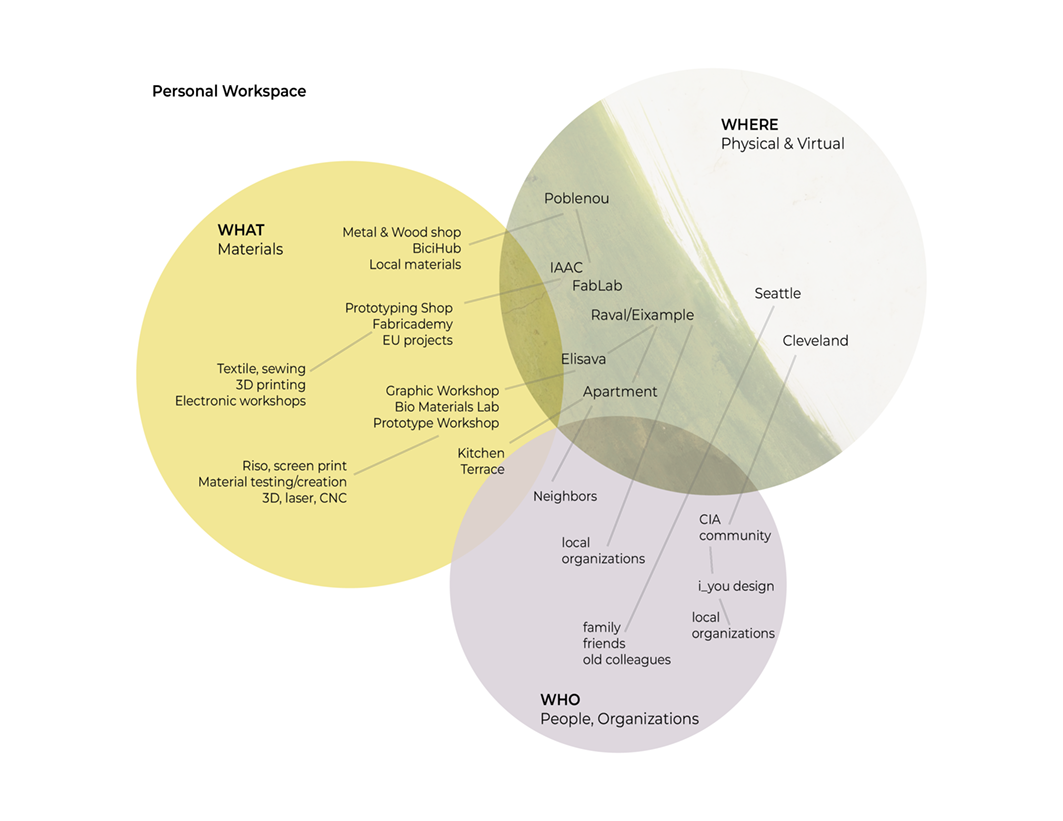
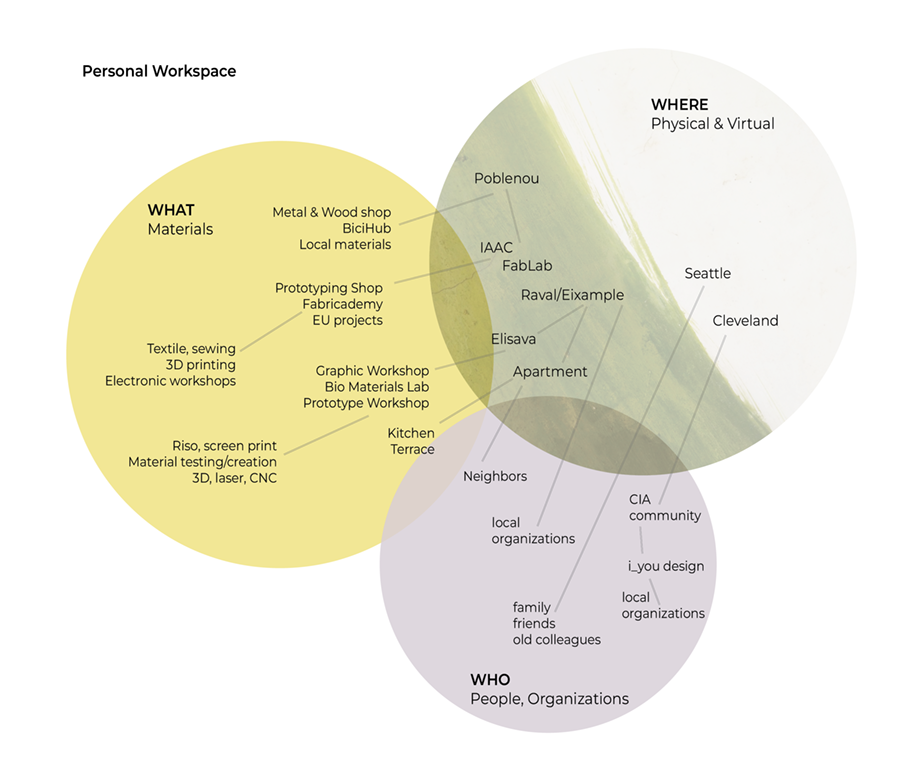
deploy: bf220933368d2644e67ff6a51ad435c3d5e101a0

diff --git a/term1/02-Design Studio/index.html b/term1/02-Design Studio/index.html
@@ -450,7 +450,7 @@
 <h3 id="roles-of-prototyping">Roles of Prototyping<a class="headerlink" href="#roles-of-prototyping" title="Permanent link">&para;</a></h3>
 <p><img alt="1_RolesofPrototyping--" src="../../images/1Term/2_DesignStudio/1_RolesofPrototyping--.png" /></p>
 <h3 id="personal-workspace">Personal Workspace<a class="headerlink" href="#personal-workspace" title="Permanent link">&para;</a></h3>
-<p><img alt="PersonalWorkspace" src="../../images/1Term/2_DesignStudio/PersonalWorkspace.svg" /></p>
+<p><img alt="2_PersonalWorkspace" src="../../images/1Term/2_DesignStudio/2_PersonalWorkspace.png" /></p>
                 
                   
                     
